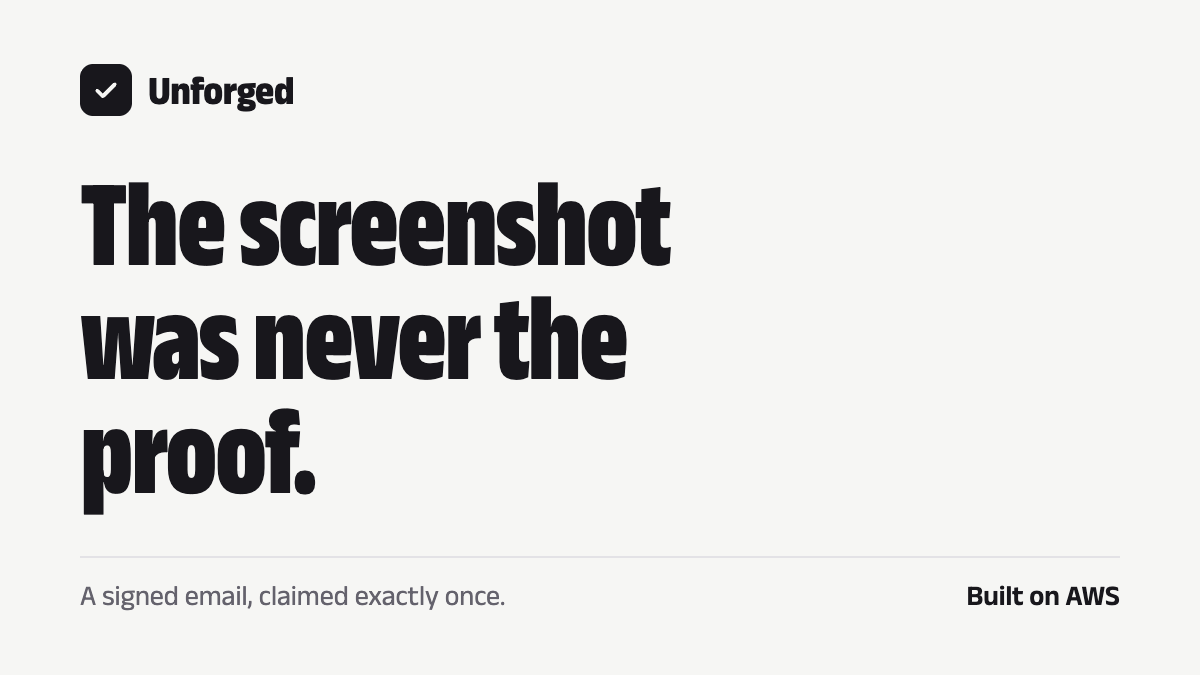
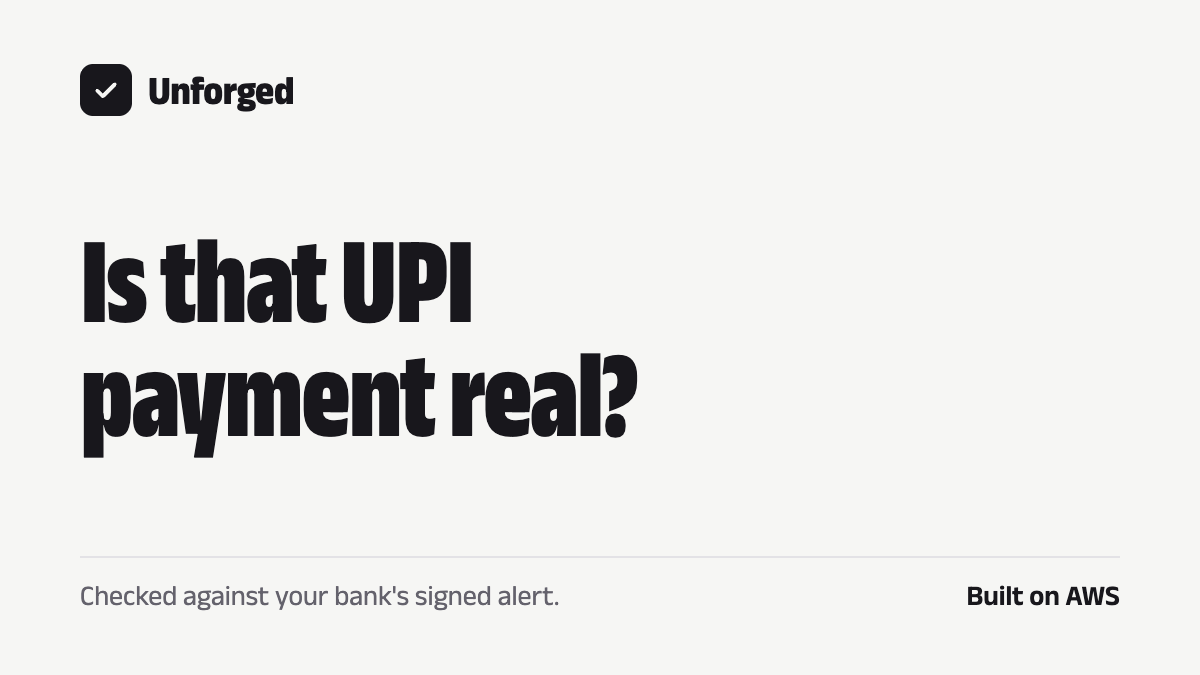
fix(web): plainer hero line and meta description

Changed region(s): [[0.0617, 0.2489, 0.555, 0.7778], [0.0617, 0.8711, 0.4625, 0.9022]]

diff --git a/web/index.html b/web/index.html
@@ -5,9 +5,9 @@
     <meta name="viewport" content="width=device-width, initial-scale=1.0" />
     <meta name="theme-color" content="#f1f0f5" media="(prefers-color-scheme: light)" />
     <meta name="theme-color" content="#0f0d17" media="(prefers-color-scheme: dark)" />
-    <meta name="description" content="A signed email is proof nobody can forge, and each proof can be claimed exactly once. Check a UPI payment screenshot against the bank's DKIM-signed alert." />
+    <meta name="description" content="Checks a UPI payment screenshot against the bank's DKIM-signed credit alert. Each credit pays for one order only." />
     <meta property="og:title" content="Unforged" />
-    <meta property="og:description" content="A signed email is proof nobody can forge, and each proof can be claimed exactly once. Check any signed email, then claim it once." />
+    <meta property="og:description" content="Checks a UPI payment screenshot against the bank's DKIM-signed credit alert. Each credit pays for one order only." />
     <meta property="og:image" content="https://d1ajauwkb76on3.cloudfront.net/og.png" />
     <meta property="og:url" content="https://d1ajauwkb76on3.cloudfront.net/" />
     <meta property="og:type" content="website" />

diff --git a/web/src/Home.tsx b/web/src/Home.tsx
@@ -131,8 +131,8 @@ export function Home({ live }: { live: LiveRun }) {
     <>
       <section className="hero">
         <div className="hero-copy">
-          <h1>The screenshot was never the proof.</h1>
-          <p className="hero-sub">A signed email is proof nobody can forge. Unforged lets each one be claimed exactly once, starting with UPI payments.</p>
+          <h1>Is that UPI payment real?</h1>
+          <p className="hero-sub">Your bank emails you a signed alert for every credit. Unforged checks the buyer's screenshot against it, and each credit pays for one order only.</p>
           <div className="hero-actions">
             <a className="primary big-cta" href={hrefOf.proof}>
               See the proof

diff --git a/web/src/Site.tsx b/web/src/Site.tsx
@@ -101,7 +101,7 @@ export function Footer() {
         <div className="foot-grid">
           <div className="foot-brand">
             <Brand />
-            <p>The screenshot was never the proof.</p>
+            <p>Checks UPI payments against your bank's signed alert.</p>
             <p>
               Built by{" "}
               <a href={author} target="_blank" rel="noreferrer">

diff --git a/README.md b/README.md
@@ -1,11 +1,11 @@
 # Unforged
 
-**A signed email is proof nobody can forge, and each proof can be claimed exactly once.**
+**Is that UPI payment real?** Unforged checks the buyer's screenshot against
+the credit alert your bank emailed you. The bank signs that email with DKIM,
+so it can't be edited, and each credit pays for one order only.
 
-A buyer's UPI payment screenshot can be edited, or shown again for a second
-order. The seller's bank credit alert cannot, because the bank signs it with
-DKIM. Unforged checks the screenshot against that signed alert in code and lets
-each bank credit pay for one order.
+A screenshot can be edited, or shown again for a second order. The same check
+works on any email its sender signs: refunds, payslips, deposits.
 
 Live: https://d1ajauwkb76on3.cloudfront.net
 
